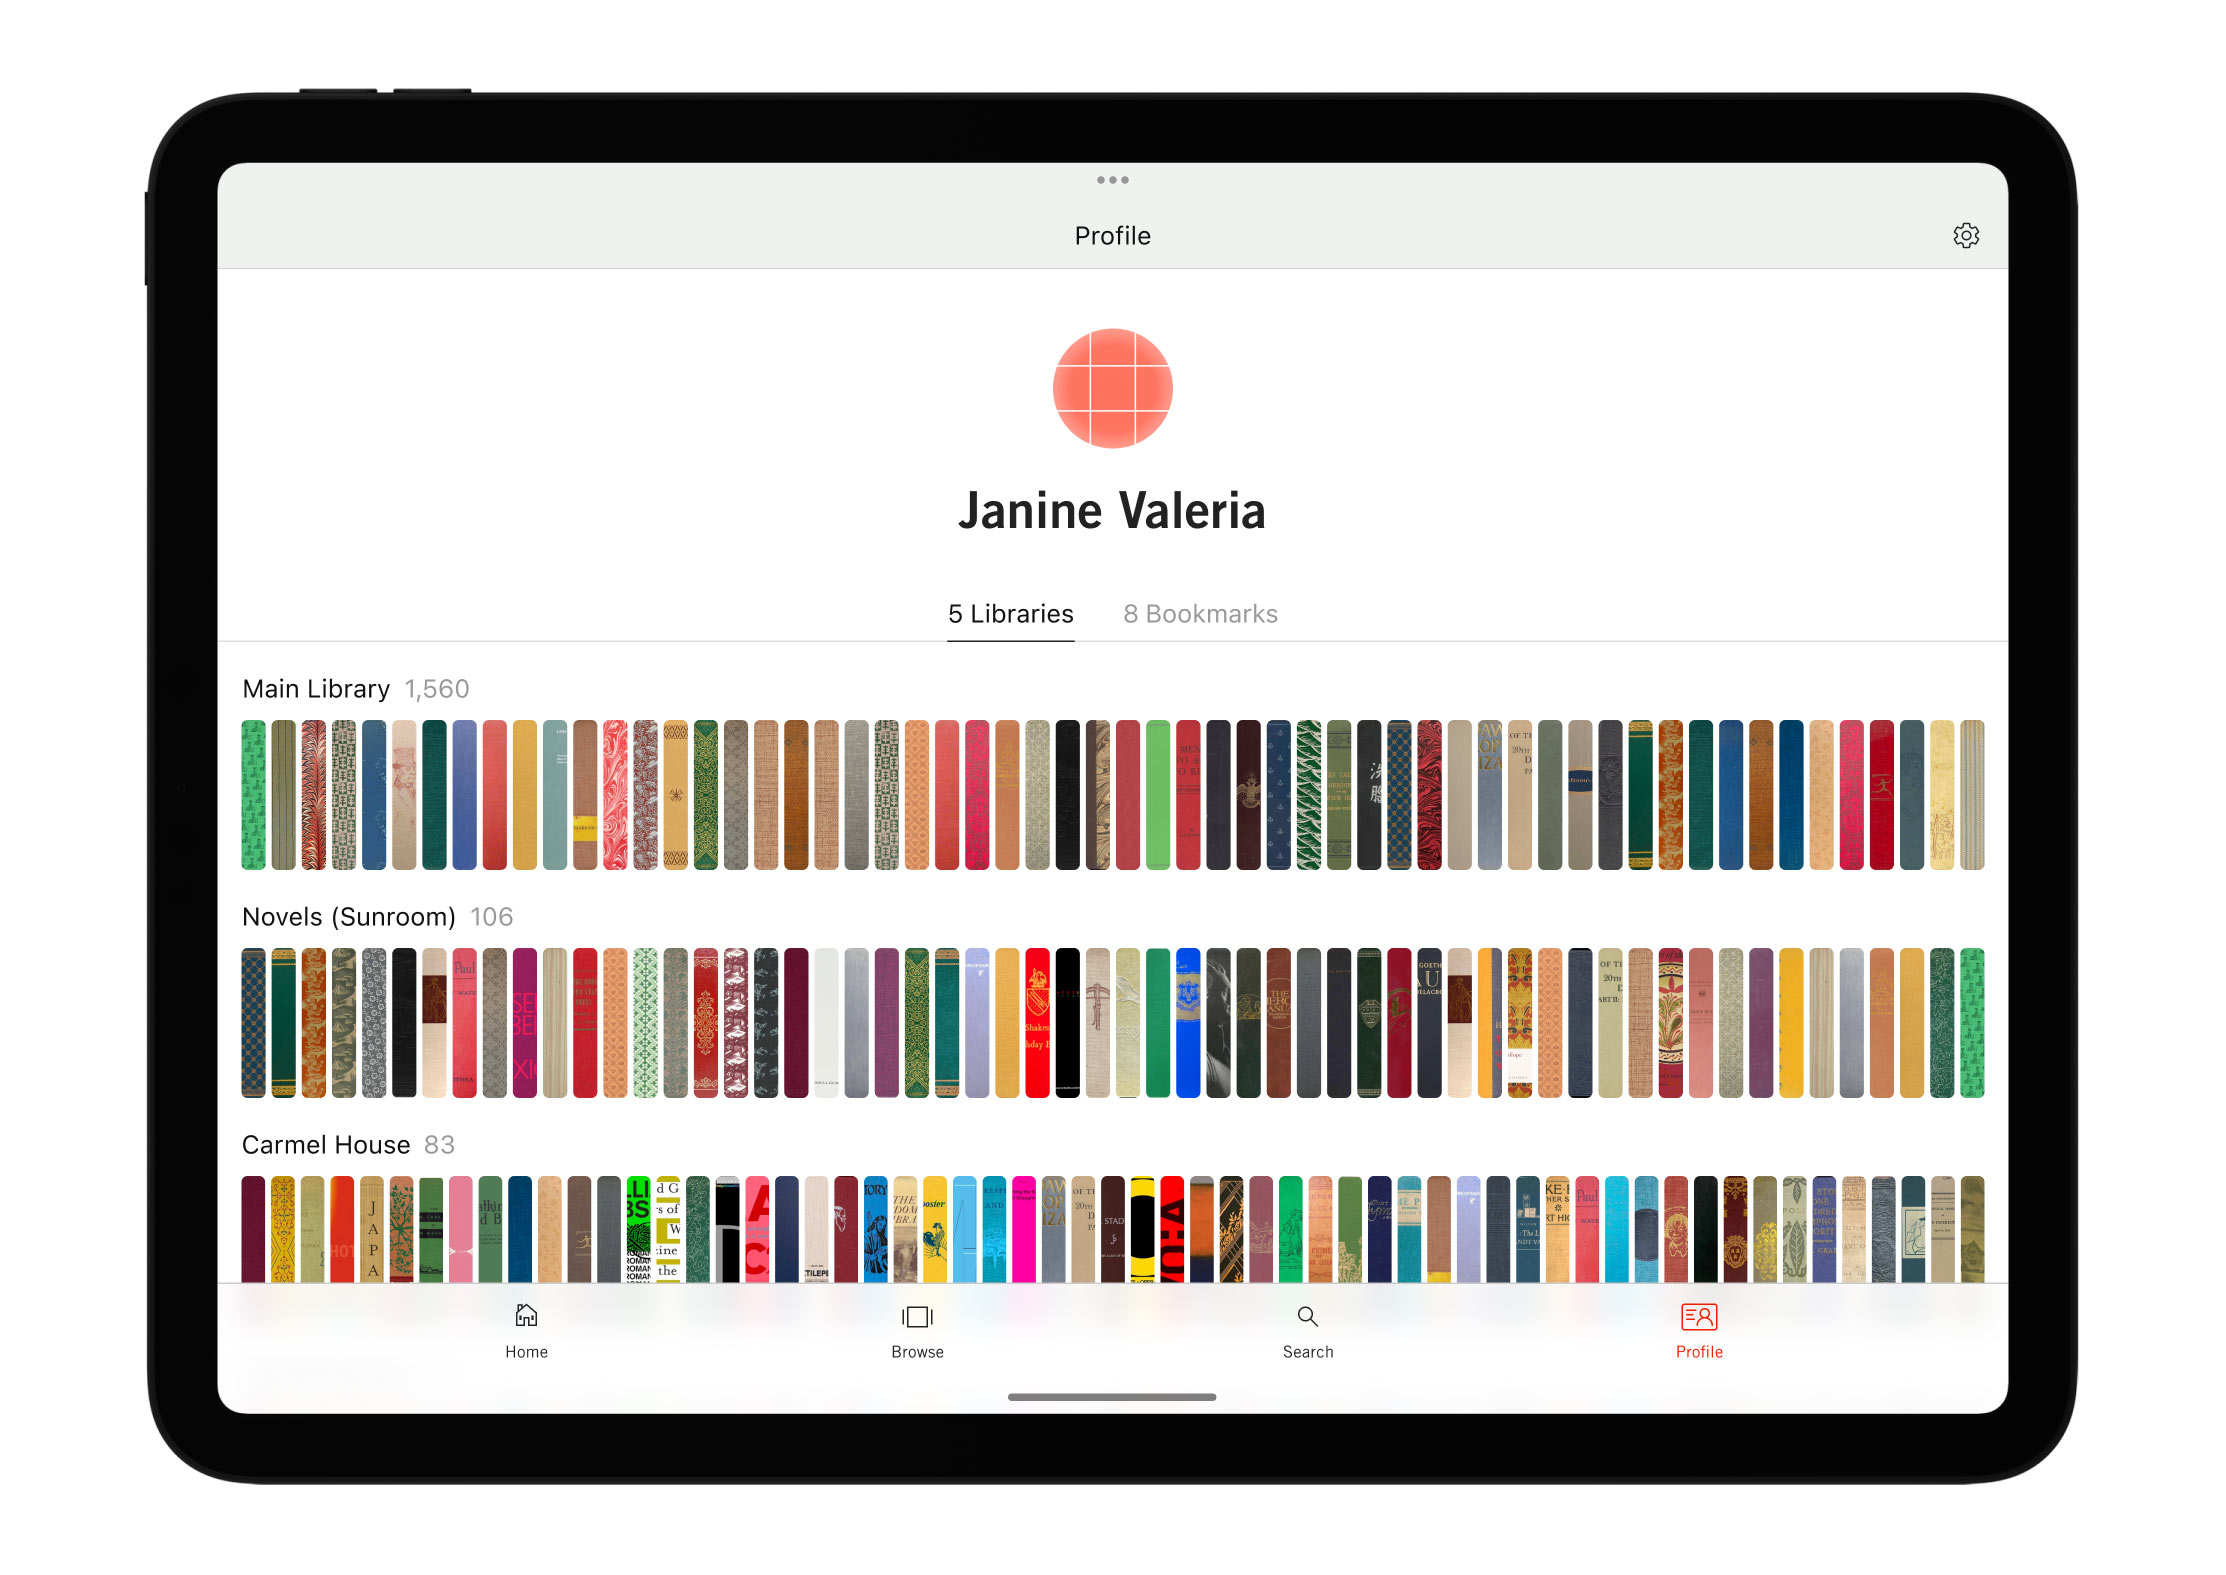
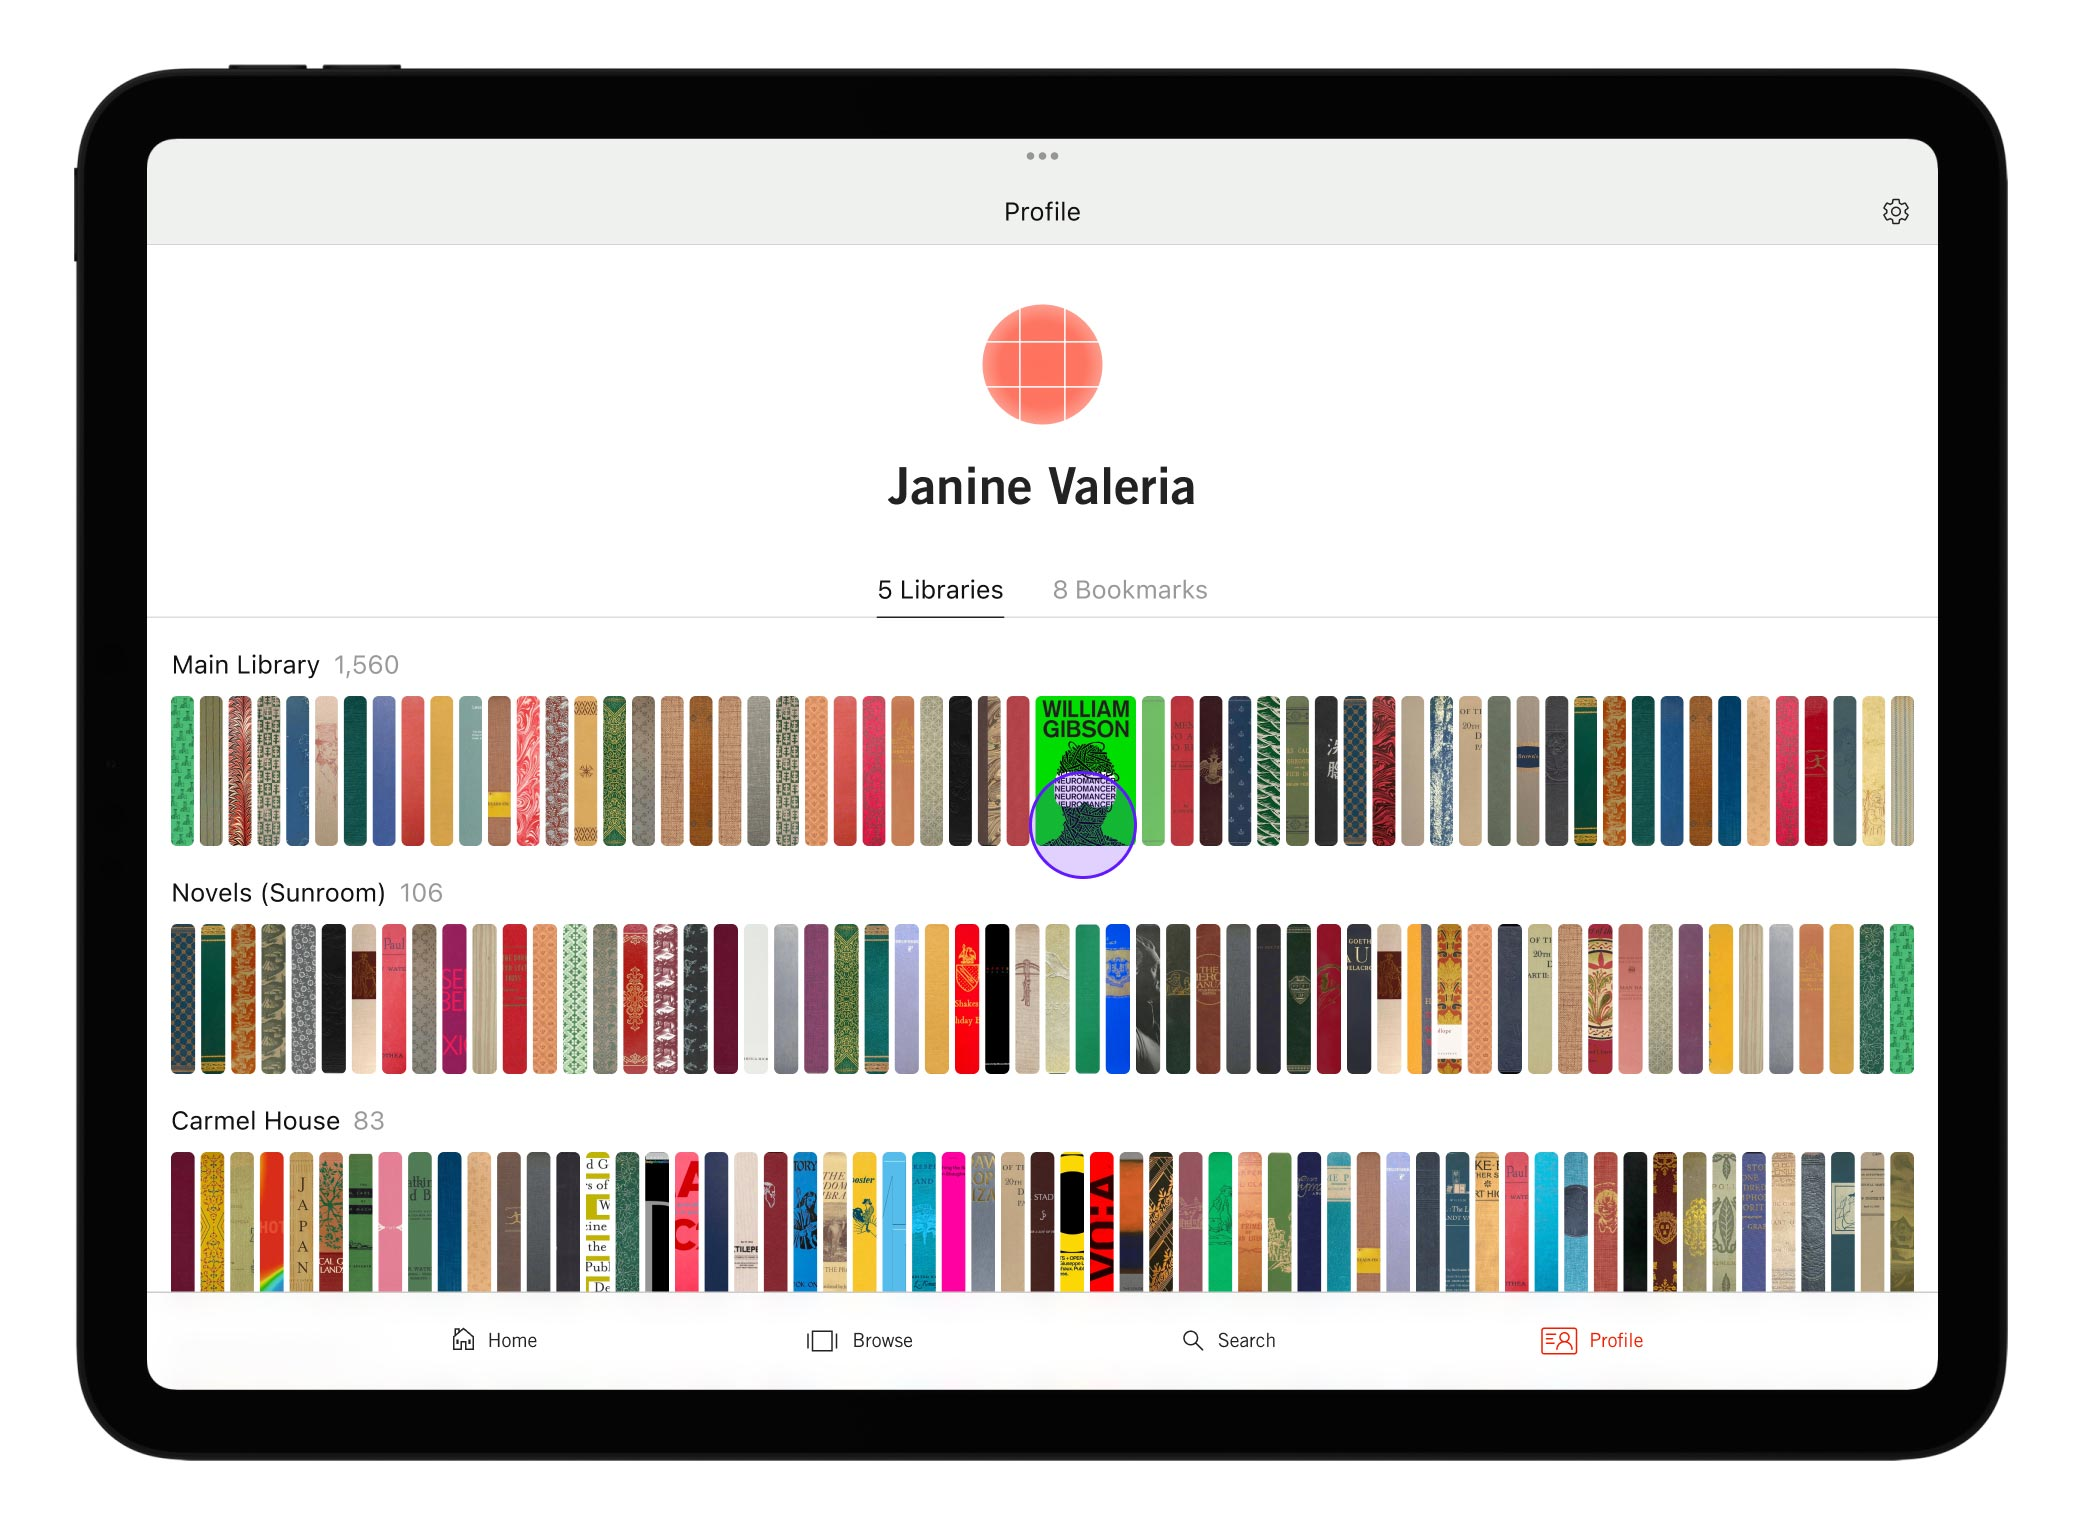
adding ipad screens to booklist

diff --git a/css/special_panda.css b/css/special_panda.css
@@ -1921,7 +1921,7 @@ $$/       $$/  $$$$$$$/ $$/   $$/
 
     .data_image img {
         max-height: 300px;
-        margin-bottom: 40px;
+        margin-bottom: 20px;
 
     }
 

diff --git a/projects/_posts/2022-01-01-05.md b/projects/_posts/2022-01-01-05.md
@@ -753,7 +753,7 @@ We put together a few rounds of interviews for testing. It was a nice array of c
 	      <div class="data_box_col">
 	      <!--  -->
 	                <div class="data_image">
-	                    <img src="{{site.baseurl}}/images/projects/appreciate_explore/data_box/001_albert.jpg">
+	                    <img src="{{site.baseurl}}/images/projects/appreciate_explore/data_box/001_albert.jpg" style="margin-bottom:0px">
 	                </div>
 	        <!--  -->
 	                <div class="data_specs_outer">
@@ -807,7 +807,7 @@ We put together a few rounds of interviews for testing. It was a nice array of c
 	      <div class="data_box_col">
 	      <!--  -->
 	                <div class="data_image">
-	                    <img src="{{site.baseurl}}/images/projects/appreciate_explore/data_box/002_bonnie.jpg">
+	                    <img src="{{site.baseurl}}/images/projects/appreciate_explore/data_box/002_bonnie.jpg" style="margin-bottom:0px">
 	                </div>
 	        <!--  -->
 	                <div class="data_specs_outer">
@@ -867,7 +867,7 @@ We put together a few rounds of interviews for testing. It was a nice array of c
 	      <div class="data_box_col">
 	      <!--  -->
 	                <div class="data_image">
-	                    <img src="{{site.baseurl}}/images/projects/appreciate_explore/data_box/003_linda.jpg">
+	                    <img src="{{site.baseurl}}/images/projects/appreciate_explore/data_box/003_linda.jpg" style="margin-bottom:0px">
 	                </div>
 	        <!--  -->
 	                <div class="data_specs_outer">
@@ -920,7 +920,7 @@ We put together a few rounds of interviews for testing. It was a nice array of c
 	      <div class="data_box_col">
 	      <!--  -->
 	                <div class="data_image">
-	                    <img src="{{site.baseurl}}/images/projects/appreciate_explore/data_box/004_noriko.jpg">
+	                    <img src="{{site.baseurl}}/images/projects/appreciate_explore/data_box/004_noriko.jpg" style="margin-bottom:0px">
 	                </div>
 	        <!--  -->
 	                <div class="data_specs_outer">
@@ -983,7 +983,7 @@ We put together a few rounds of interviews for testing. It was a nice array of c
 	      <div class="data_box_col">
 	      <!--  -->
 	                <div class="data_image">
-	                    <img src="{{site.baseurl}}/images/projects/appreciate_explore/data_box/005_Thuy.jpg">
+	                    <img src="{{site.baseurl}}/images/projects/appreciate_explore/data_box/005_Thuy.jpg" style="margin-bottom:0px">
 	                </div>
 	        <!--  -->
 	                <div class="data_specs_outer">
@@ -1035,7 +1035,7 @@ We put together a few rounds of interviews for testing. It was a nice array of c
 	      <div class="data_box_col">
 	      <!--  -->
 	                <div class="data_image">
-	                    <img src="{{site.baseurl}}/images/projects/appreciate_explore/data_box/006_william.jpg">
+	                    <img src="{{site.baseurl}}/images/projects/appreciate_explore/data_box/006_william.jpg" style="margin-bottom:0px">
 	                </div>
 	        <!--  -->
 	                <div class="data_specs_outer">
@@ -1095,7 +1095,7 @@ We put together a few rounds of interviews for testing. It was a nice array of c
 	      <div class="data_box_col">
 	      <!--  -->
 	                <div class="data_image">
-	                    <img src="{{site.baseurl}}/images/projects/appreciate_explore/data_box/007_shane.jpg">
+	                    <img src="{{site.baseurl}}/images/projects/appreciate_explore/data_box/007_shane.jpg" style="margin-bottom:0px">
 	                </div>
 	        <!--  -->
 	                <div class="data_specs_outer">
@@ -1148,7 +1148,7 @@ We put together a few rounds of interviews for testing. It was a nice array of c
 	      <div class="data_box_col">
 	      <!--  -->
 	                <div class="data_image">
-	                    <img src="{{site.baseurl}}/images/projects/appreciate_explore/data_box/008_linda.jpg">
+	                    <img src="{{site.baseurl}}/images/projects/appreciate_explore/data_box/008_linda.jpg" style="margin-bottom:0px">
 	                </div>
 	        <!--  -->
 	                <div class="data_specs_outer">

diff --git a/projects/_posts/2023-01-01-00.md b/projects/_posts/2023-01-01-00.md
@@ -32,10 +32,11 @@ This project is currently in production.
 
 ![booklist example]({{ site.baseurl }}/images/projects/booklist/0000.jpg)
 
-<div style="background-color:white">
-	<div>
-		<img src="{{site.baseurl}}/images/projects/booklist/ipad.png">
-	</div>
+
+
+<div class="inst_01" style="background-color:white">
+    <a href="{{site.baseurl}}/images/projects/booklist/ipad.jpg" target="_blank">
+    <img src="{{site.baseurl}}/images/projects/booklist/ipad.jpg" alt="booklist"></a>
 </div>
 
 
@@ -54,9 +55,17 @@ This project is currently in production.
   </div>
 </div>
 
-<div>
-	<img src="{{site.baseurl}}/images/projects/booklist/ipad_profile.jpg">
+<div class="inst_01" style="background-color:white">
+    <a href="{{site.baseurl}}/images/projects/booklist/ipad_profile.jpg" target="_blank">
+    <img src="{{site.baseurl}}/images/projects/booklist/ipad_profile.jpg" alt="booklist"></a>
 </div>
+
+<div class="inst_01" style="background-color:white">
+    <a href="{{site.baseurl}}/images/projects/booklist/ipad_profile2.jpg" target="_blank">
+    <img src="{{site.baseurl}}/images/projects/booklist/ipad_profile2.jpg" alt="booklist"></a>
+</div>
+
+
 
 <!-- <div class="booklist_normal">
 	<img src="{{site.baseurl}}/images/projects/booklist/lotsofbooks_04.jpg" alt="booklist">
